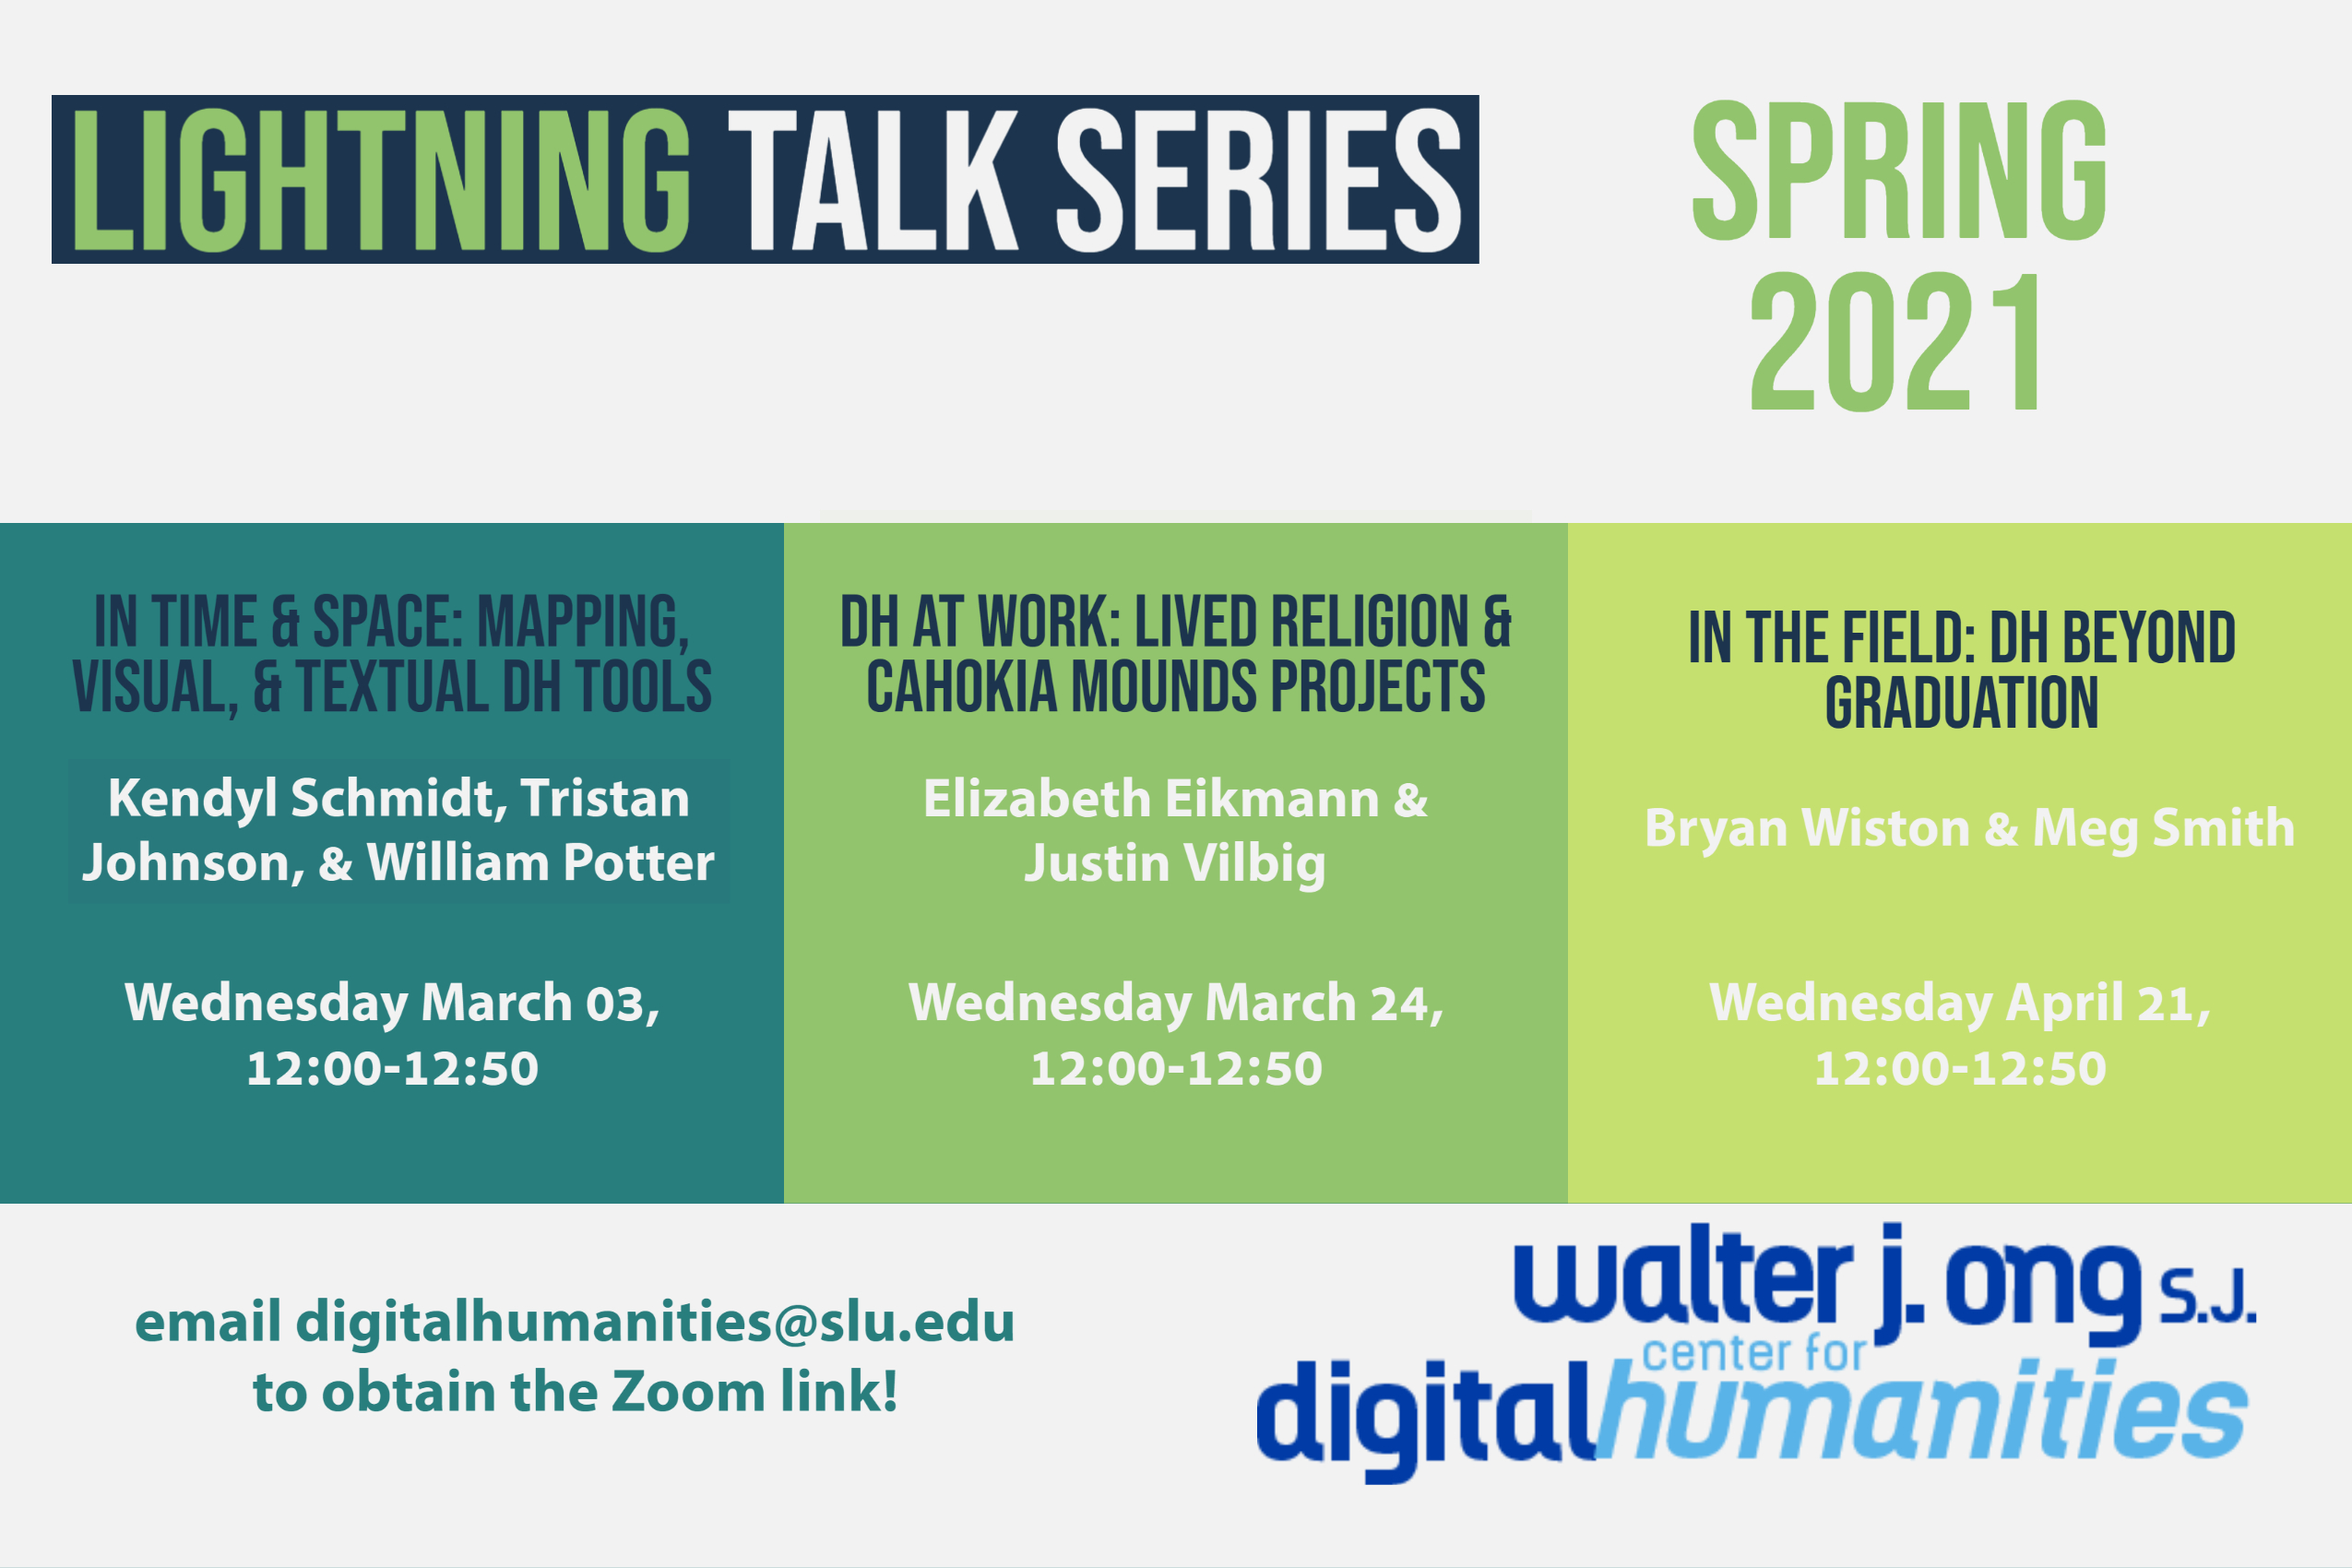
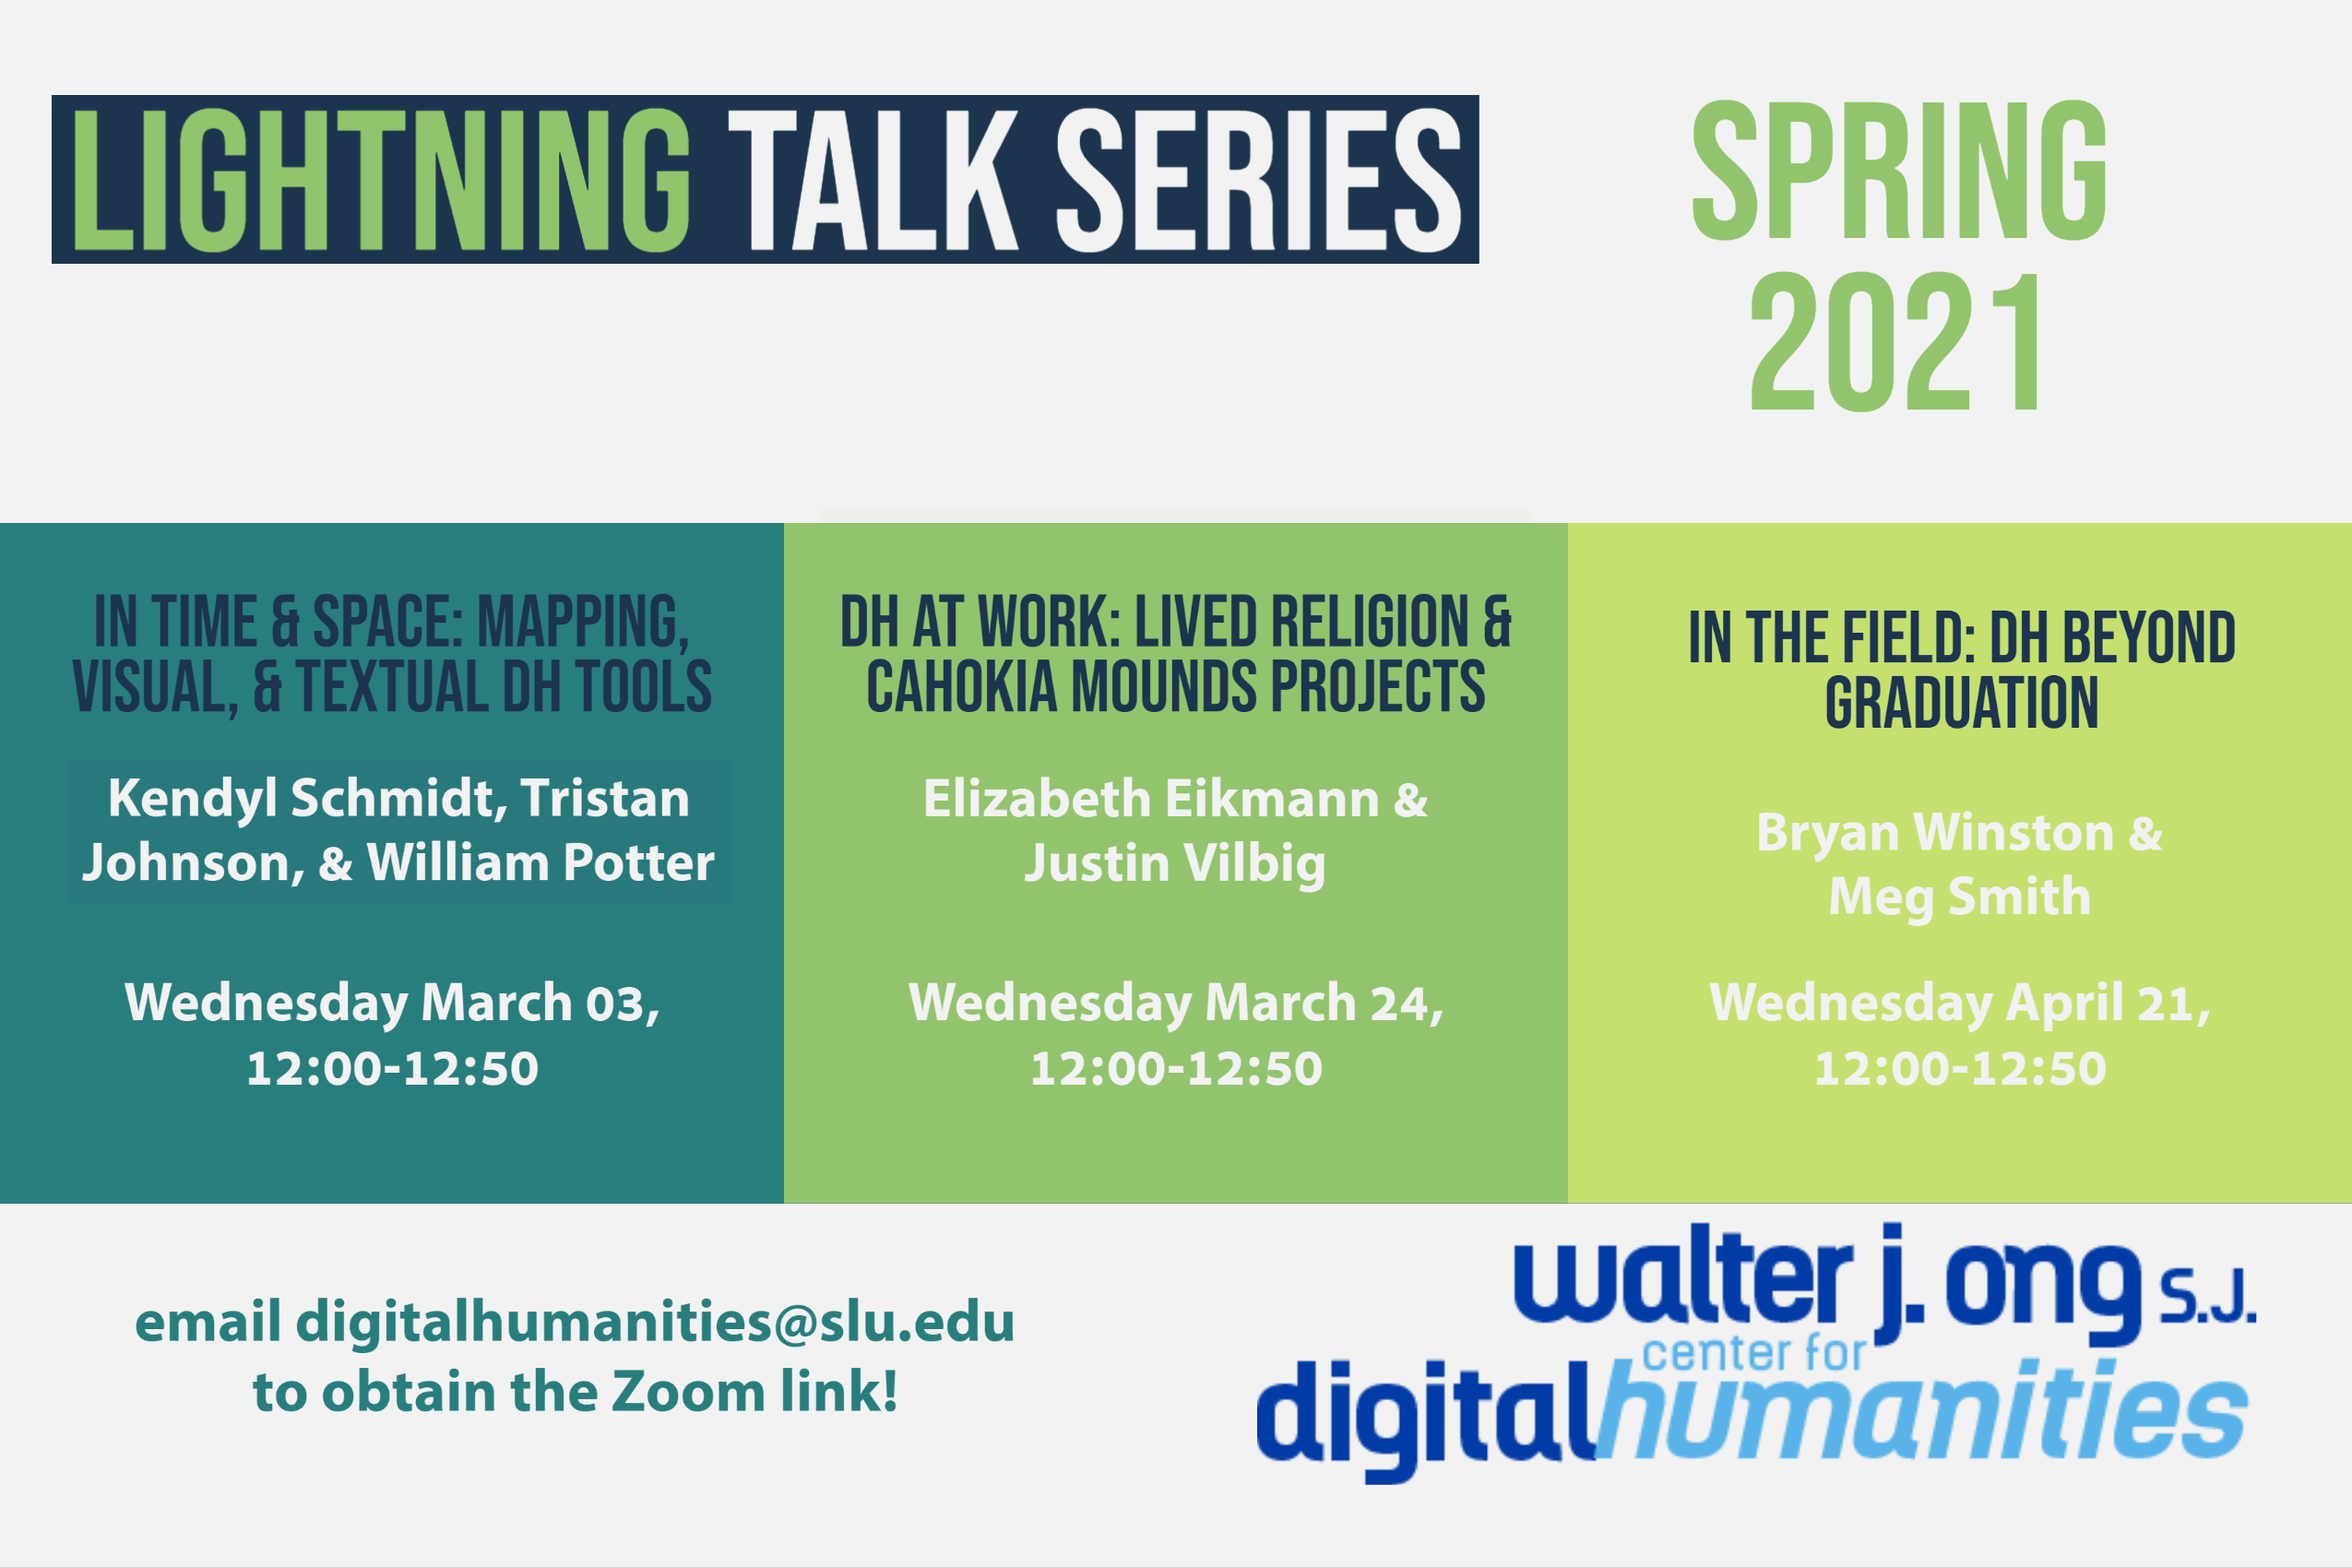
0216-BSG changes 2

Changed region(s): [[0.6816, 0.4988, 0.9914, 0.5924]]

diff --git a/talks.html b/talks.html
@@ -17,11 +17,7 @@
 
 <body>
 <div class="colophon">
-<<<<<<< HEAD
   <a href="https://www.slu.edu/arts-and-sciences/ong-center/index.php" target="_blank"><img src="images/OCDH_v2.jpg" alt="CDH Logo" height="80"></a>
-=======
-  <a href="https://www.slu.edu/arts-and-sciences/ong-center/index.php" target="_blank"><img src="images/logo_v4.png" alt="CDH Logo" height="80"></a>
->>>>>>> 00f9aa3a1471b4dab0243b224ae69b0ee05c72ab
   <span style="float:right;">v2:2021-02-09</span></div>
 
 <div class="nav"></div>
@@ -68,7 +64,7 @@
 <h3>Session 3 – In the Field: DH Beyond Graduation</h3> 
 
 <ul>
-  <li>Speakers: Bryan Wiston & Meg Smith </li>
+  <li>Speakers: Bryan Winston & Meg Smith </li>
   <li>Date: Wednesday April 21, 12:00-12:50</li>
 </ul>
 
